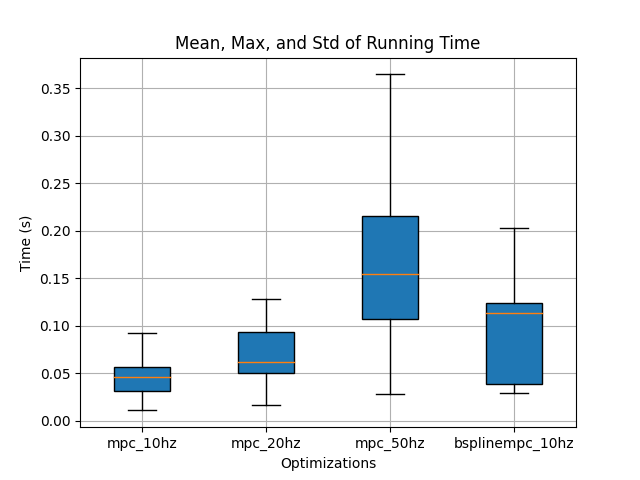
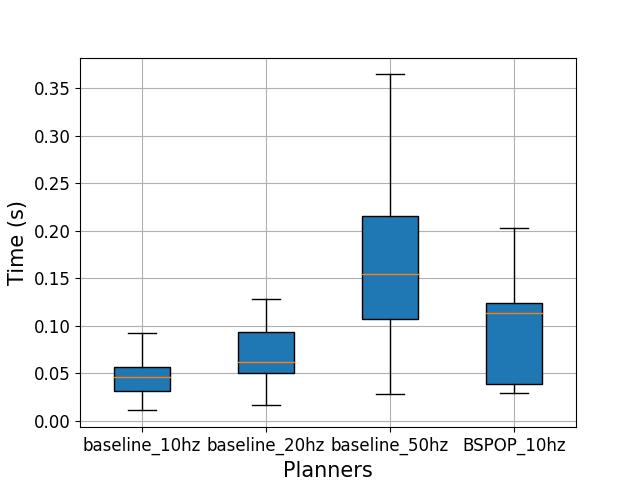
2024312

diff --git a/casadi_minvo/plot_from_pickle.py b/casadi_minvo/plot_from_pickle.py
@@ -8,7 +8,7 @@ sys.path.insert(0, os.path.dirname(os.getcwd()))
 import alphashape
 import pickle
 
-
+plt.figure(figsize=(8, 6), dpi=80)
 def distance_to_goal(position, goal):
     return np.linalg.norm(position - goal)
 
@@ -84,17 +84,17 @@ plt.plot(x, len(x)*[lower_limit], 'black', label='lower limit', linewidth=1.2)
 # plt.plot(x1, yy, color='grey', linewidth=2.2)
 # plt.plot(x2, yy, color='grey', linewidth=2.2)
 
-# ### Load Trajectory Data ###
-with open('LOG_traj_env_27.pkl', 'rb') as f:
-    LOG_traj = pickle.load(f)
-print(len(LOG_traj))
+# # ### Load Trajectory Data ###
+# with open('LOG_traj_env_14.pkl', 'rb') as f:
+#     LOG_traj = pickle.load(f)
+# print(len(LOG_traj))
 
-### Print Angles ###
-with open('LOG_initial_theta_env27.pkl', 'rb') as f:
-    LOG_theta = pickle.load(f)
+# ### Print Angles ###
+# with open('LOG_initial_theta_env14.pkl', 'rb') as f:
+#     LOG_theta = pickle.load(f)
 
 
-### Load Trajectory Data ###
+# ## Load Trajectory Data ###
 # with open('LOG_traj_env_17_mpc_sq.pkl', 'rb') as f:
 #     LOG_traj = pickle.load(f)
 # print(len(LOG_traj))
@@ -114,16 +114,18 @@ with open('LOG_initial_theta_env27.pkl', 'rb') as f:
 # with open('LOG_initial_theta_env22.pkl', 'rb') as f:
 #     LOG_theta = pickle.load(f)
 
-# ### Load Trajectory Data ###
-# with open('LOG_traj_env_23_mpc_sq.pkl', 'rb') as f:
-#     LOG_traj = pickle.load(f)
-# print(len(LOG_traj))
+### Load Trajectory Data ###
+with open('LOG_traj_env_23_mpc_sq.pkl', 'rb') as f:
+    LOG_traj = pickle.load(f)
+print(len(LOG_traj))
 
-# ### Print Angles ###
-# with open('LOG_initial_theta_env23_mpc_sq.pkl', 'rb') as f:
-#     LOG_theta = pickle.load(f)
+### Print Angles ###
+with open('LOG_initial_theta_env23_mpc_sq.pkl', 'rb') as f:
+    LOG_theta = pickle.load(f)
 
 ### Print Trajectory ###
+    
+
 for i in range(len(LOG_traj)):
     if len(LOG_traj[i][0]) > 0:
         traj_end_x = LOG_traj[i][0][-1]
@@ -135,8 +137,11 @@ for i in range(len(LOG_traj)):
             plt.plot(LOG_traj[i][0], LOG_traj[i][1], 'r-', linewidth=0.5)
     # print(len(LOG_traj[i]))
 
-plt.xlabel('x [m]')
-plt.ylabel('y [m]')
+ff = 18
+plt.xlabel('x [m]', fontsize=ff)
+plt.ylabel('y [m]', fontsize=ff)
+plt.xticks(fontsize=ff)
+plt.yticks(fontsize=ff)
 # plt.axis("equal")
 plt.show()
 

diff --git a/casadi_minvo/running_time_record.py b/casadi_minvo/running_time_record.py
@@ -83,6 +83,8 @@ print("bsplinempc_10hz_running_time_total: ", bsplinempc_10hz_running_time_total
 print("bsplinempc_10hz_running_time_midan: ", bsplinempc_10hz_running_time_midan)
 
 ### Figure 1 plot x-y and obstacles ###
+ff = 18
+
 fig, ax = plt.subplots()
 
 ax.plot(mpc_10hz_x, mpc_10hz_y, label='baseline_10hz')
@@ -102,8 +104,10 @@ lower_limit = -2.0
 
 plt.plot(target_x,target_y,'bo')
 plt.plot(start_x, start_y, 'go')
-plt.xlabel('pos_x')
-plt.ylabel('pos_y')
+plt.xlabel('x [m]', fontsize=ff)
+plt.ylabel('y [m]', fontsize=ff)
+plt.xticks(fontsize=ff-4)
+plt.yticks(fontsize=ff-4)
 target_circle1 = plt.Circle((circle_obstacles_1['x'], circle_obstacles_1['y']), circle_obstacles_1['r'], color='whitesmoke', fill=True)
 target_circle2 = plt.Circle((circle_obstacles_2['x'], circle_obstacles_2['y']), circle_obstacles_2['r'], color='whitesmoke', fill=True)
 target_circle3 = plt.Circle((circle_obstacles_3['x'], circle_obstacles_3['y']), circle_obstacles_3['r'], color='whitesmoke', fill=True)
@@ -121,7 +125,7 @@ plt.axis([-5.0, 1.5, -2.4, 2.4])
 x = np.arange(start_x-1,4,0.01)
 plt.plot(x, len(x)*[upper_limit], 'black')
 plt.plot(x, len(x)*[lower_limit], 'black')
-plt.legend(loc='lower left')
+plt.legend(loc='lower left', fontsize=ff-3)
 plt.show()
 
 ax.legend()
@@ -149,10 +153,14 @@ def plot_box_statistics(data_lists, labels):
     #             verticalalignment='top', horizontalalignment='center', color='blue')
 
     # Set labels and title
-    ax.set_xlabel('Optimizations')
-    ax.set_ylabel('Time (s)')
-    ax.set_title('Mean, Max, and Std of Running Time')
+    # ax.set_xlabel('Optimizations')
+    # ax.set_ylabel('Time (s)')
+    plt.xlabel('Planners', fontsize=15)
+    plt.ylabel('Time (s)', fontsize=15)
+    # ax.set_title('Mean, Max, and Std of Running Time')
     # plt.axis([0, 5, 0, 0.9])
+    plt.xticks(fontsize=ff-6)
+    plt.yticks(fontsize=ff-6)
     plt.grid()
     plt.show()
 
